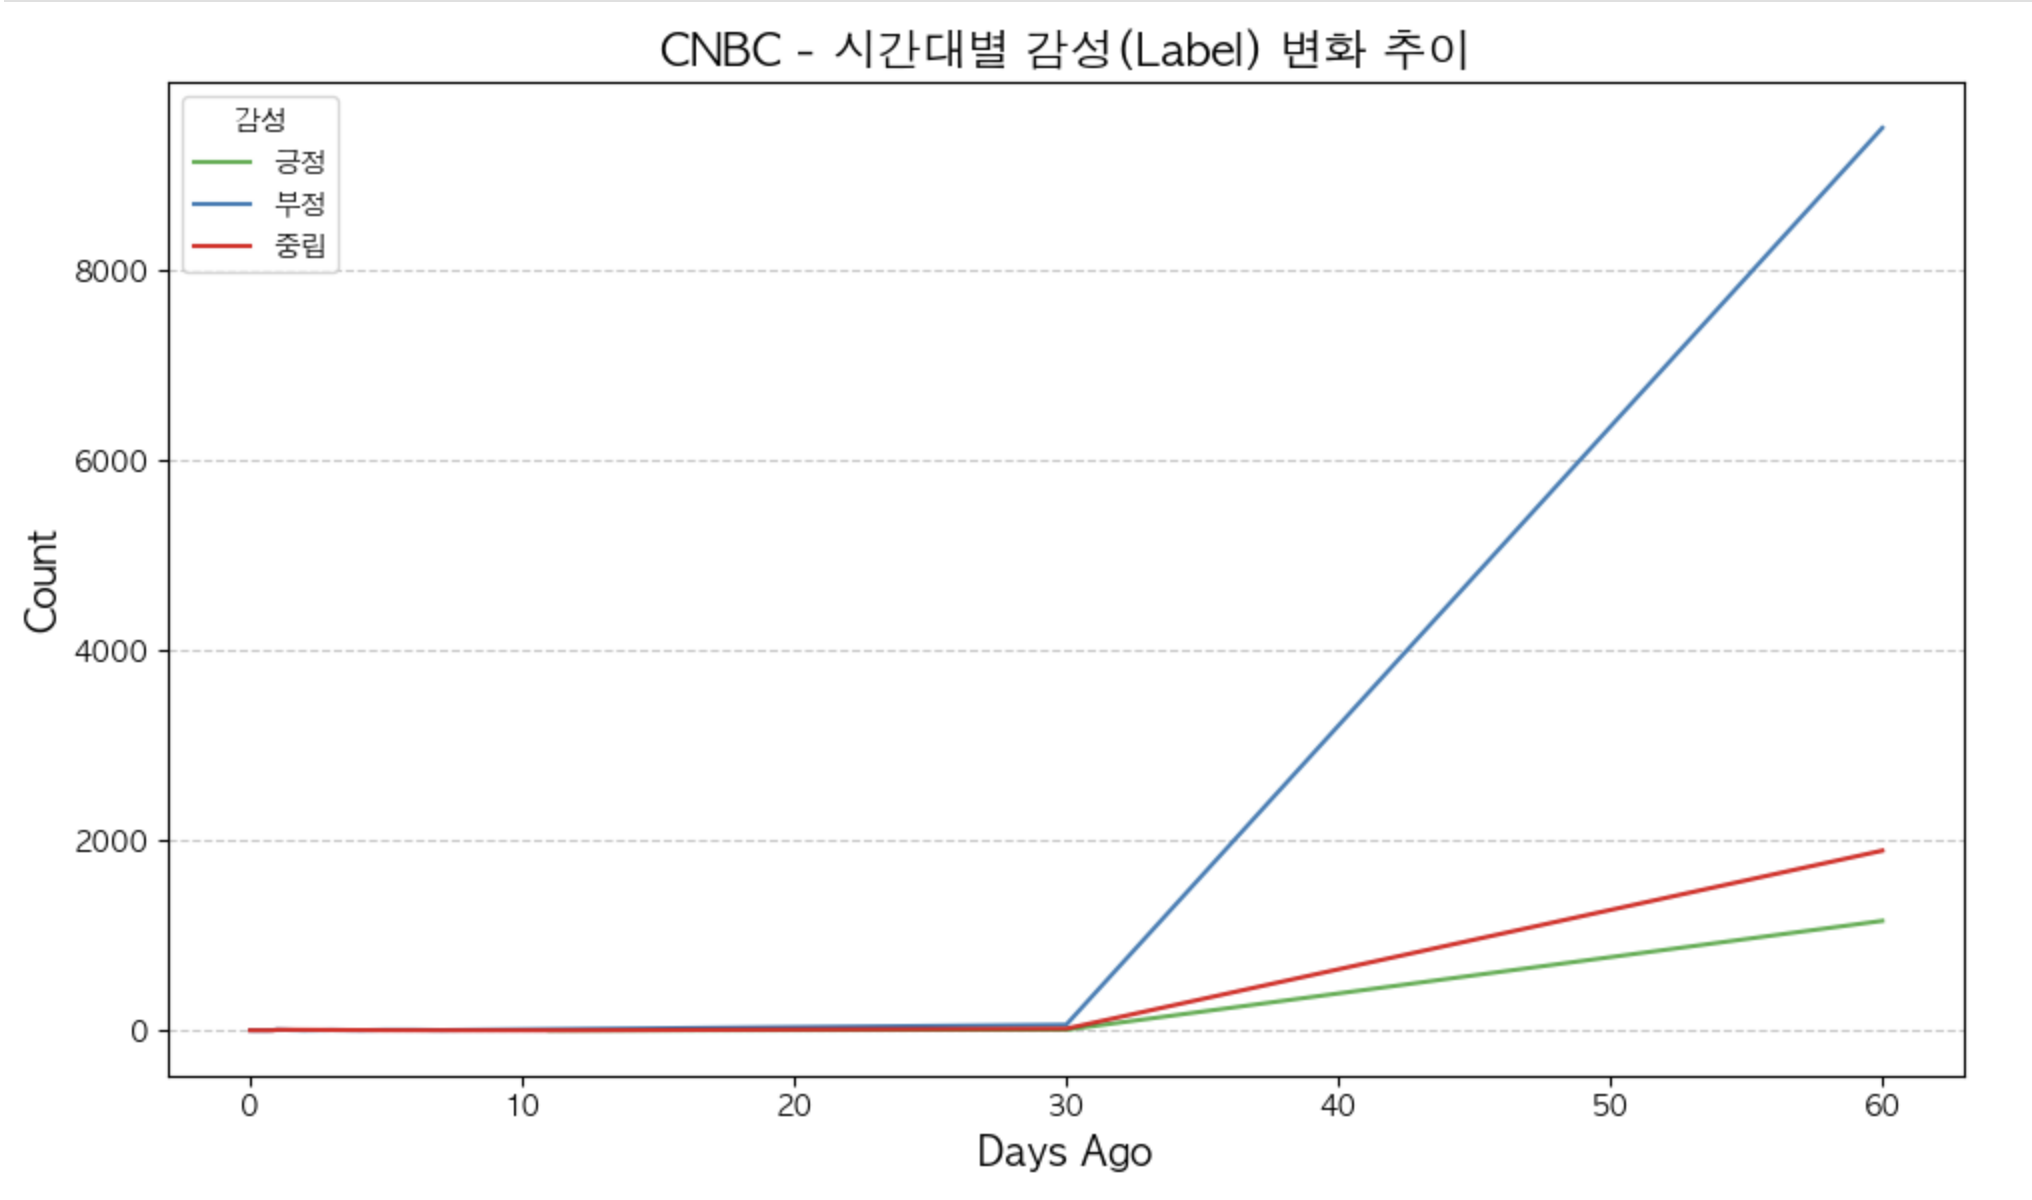
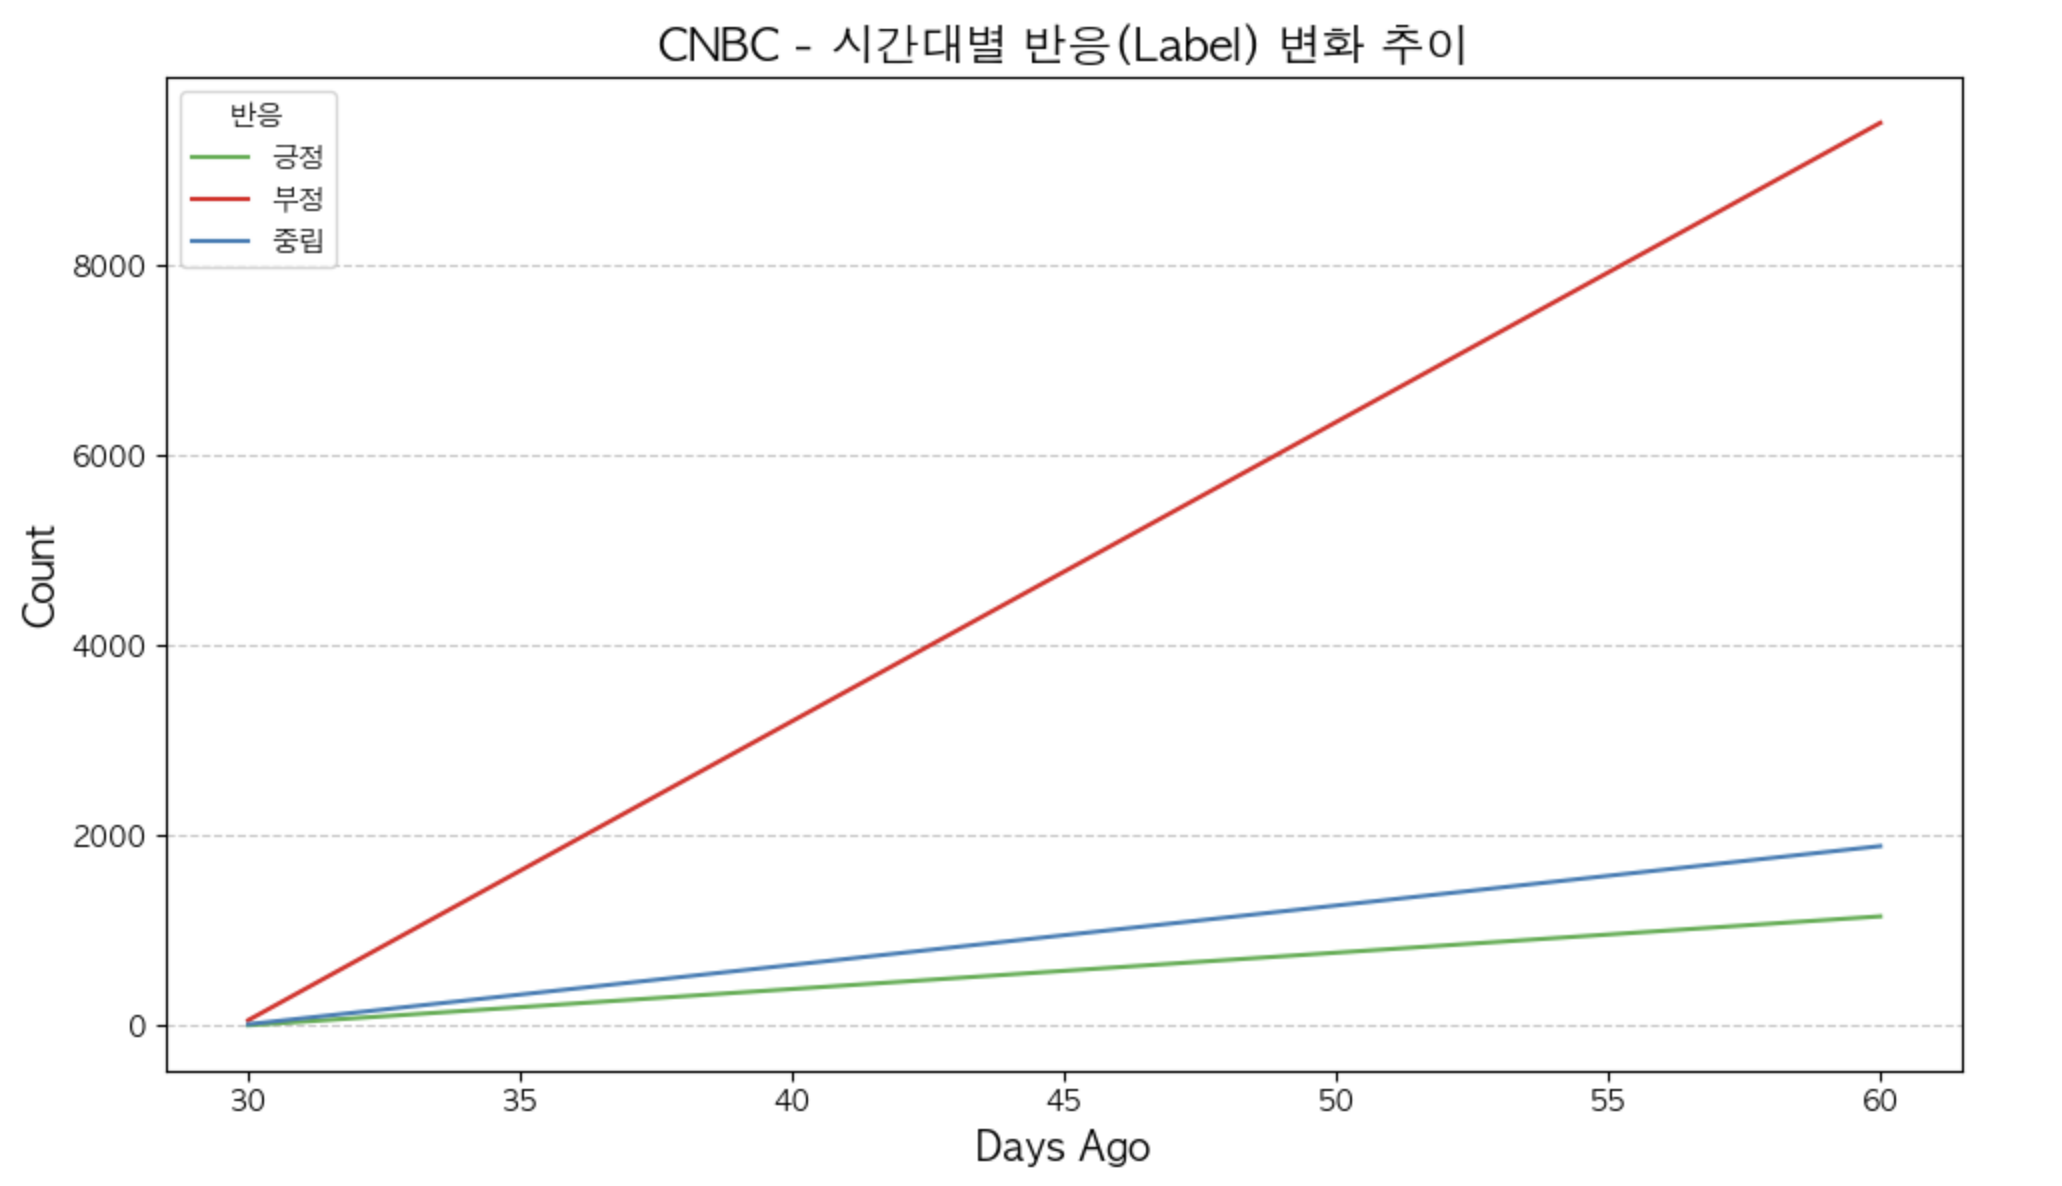
리드미

diff --git a/README.md b/README.md
@@ -148,7 +148,7 @@ https://github.com/danmadeira/simple-icon-badges
 채널별로 라벨 분포를 살펴본 결과, **모든 채널에서 부정(1.0) 라벨이 가장 높은 비중**을 차지하였다.  
 물론 채널별 시청자층의 성향과 정치적 견해 차이를 감안해야 하지만, 이를 고려하더라도 **전반적인 부정적 반응이 뚜렷하게 나타남**을 알 수 있다.
 
-특히 `The Late Show with Stephen Colbert` 와 같은 풍자적 성향의 채널에서는 **긍정(0.0) 및 중립(2.0)에 비해 부정적 반응이 더욱 두드러지게 나타나는 경향**을 확인할 수 있었다.  
+특히 `The Late Show with Stephen Colbert` 와 같은 풍자적 성향의 채널에서는 **긍정(0.0) 및 중립(2.0)에 비해 부정적 반응이 더욱 두드러지게 나타나는 경향**을 확인할 수 있다.  
 이러한 결과는 **뉴스 매체별 보도 톤의 차이**와 함께 **대중 여론의 전반적 경향성**도 반영하고 있다고 해석할 수 있다.
 
 ## 5. MobileBERT Finetuning(재학습, 미세조정) 결과
@@ -167,20 +167,20 @@ https://github.com/danmadeira/simple-icon-badges
 
 ### 5.2 epoch별 손실값과 정확도
 
-초기 Training Loss가 매우 높게 시작되었지만, 에포크가 진행됨에 따라 빠르게 손실값이 줄고 정확도는 꾸준히 상승했습니다. 특히 마지막 에포크에서 Validation Accuracy가 0.8382로 최고치를 기록하며, 안정적인 학습이 이루어졌습니다.
+초기 Training Loss가 매우 높게 시작되었지만, 에포크가 진행됨에 따라 빠르게 손실값이 줄고 정확도는 꾸준히 상승했습니다. 특히 마지막 에포크에서 Validation Accuracy가 0.8382로 최고치를 기록하며, 안정적인 학습이 이루어졌디.
 
-학습 중간에 정확도가 일시적으로 낮아지는 구간이 있었으나, 전체적으로 보았을 때 안정적인 학습 경향을 보이며 과적합 없이 성능이 개선되었습니다.
+학습 중간에 정확도가 일시적으로 낮아지는 구간이 있었으나, 전체적으로 보았을 때 안정적인 학습 경향을 보이며 과적합 없이 성능이 개선되었다.
 
 
 ### 5.3 학습 모델에 대한 전체적인 평가
 
-해당 모델은 학습 초반 손실값이 매우 높았음에도 불구하고, 이후 빠르게 수렴하며 높은 Training Accuracy(0.9123)와 Validation Accuracy(0.8382)를 기록했습니다.
+해당 모델은 학습 초반 손실값이 매우 높았음에도 불구하고, 이후 빠르게 수렴하며 높은 Training Accuracy(0.9123)와 Validation Accuracy(0.8382)를 기록하였다.
 
-전체 학습 흐름과 결과를 종합적으로 고려했을 때, **모델은 안정적인 수렴을 보여주며 실제 응용 환경에서도 활용 가능성이 높습니다.**
+전체 학습 흐름과 결과를 종합적으로 고려했을 때, **모델은 안정적인 수렴을 보여주며 실제 응용 환경에서도 활용 가능성이 높다 평가된다..**
 
 ### 5.4 학습된 모델을 원본 데이터에 적용한 결과
 
-모델 추론(inference)은 총 **52,459건의 원본 데이터**에 대해 수행되었으며, 아래와 같은 절차로 진행되었습니다.
+모델 추론(inference)은 총 **52,459건의 원본 데이터**에 대해 수행되었으며, 아래와 같은 절차로 진행.
 
 - 위에서 학습된 모델을 활용해 **라벨이 없는 원본 데이터에 긍/부정 라벨링을 자동 수행**
 - 토크나이저 로드 및 데이터 전처리 완료
@@ -190,8 +190,8 @@ https://github.com/danmadeira/simple-icon-badges
 <p align="left">
   <img src="img/inf.png" width="700px">
 </p>
-이 결과는 학습된 모델이 단순히 학습 데이터에만 최적화된 것이 아니라, 실제 환경의 원본 데이터에도 **우수한 일반화 성능을 발휘**하고 있다는 점을 시사합니다.  
-특히 라벨이 없는 데이터를 자동으로 분류해 라벨링할 수 있다는 점에서, 해당 모델은 **추가적인 데이터셋 구축이나 후속 작업에 직접 활용**될 수 있는 높은 실용성을 가지고 있다고 생각됩니다.
+이 결과는 학습된 모델이 단순히 학습 데이터에만 최적화된 것이 아니라, 실제 환경의 원본 데이터에도 **우수한 일반화 성능을 발휘**하고 있다는 점을 시사한다.  
+특히 라벨이 없는 데이터를 자동으로 분류해 라벨링할 수 있다는 점에서, 해당 모델은 **추가적인 데이터셋 구축이나 후속 작업에 직접 활용**될 수 있는 높은 실용성을 가지고 있다고 생각된다.
 
 
 
@@ -199,7 +199,7 @@ https://github.com/danmadeira/simple-icon-badges
 전체 데이터 52459건에 대한 긍부정 정확도: 0.9950
 ```
 
-또한 약 12.5it/s 속도로 빠르게 추론을 마쳤으며, 실시간 처리에도 충분히 적합한 속도와 정확도를 갖추고 있습니다.  
+또한 약 12.5it/s 속도로 빠르게 추론을 마쳤으며, 실시간 처리에도 충분히 적합한 속도와 정확도를 갖추고 있다.  
 이러한 성능은 모델이 실제 서비스에 적용될 수 있는 수준이라는 것을 의미하며, 향후 확장에도 강한 기반이 됩니다.
 
 
